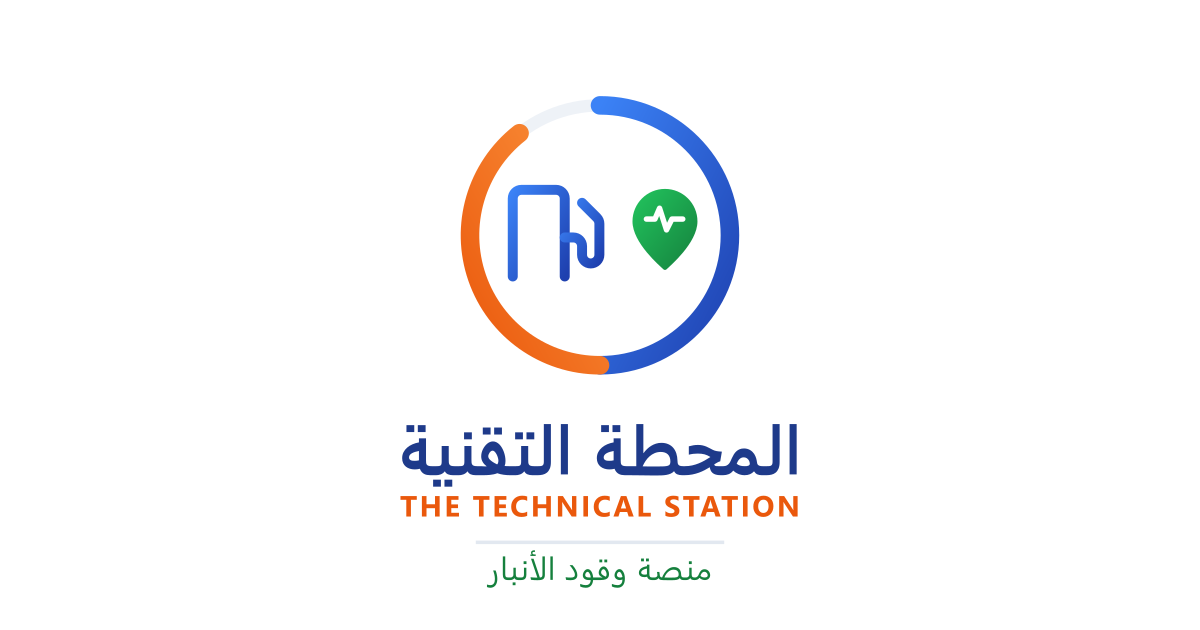
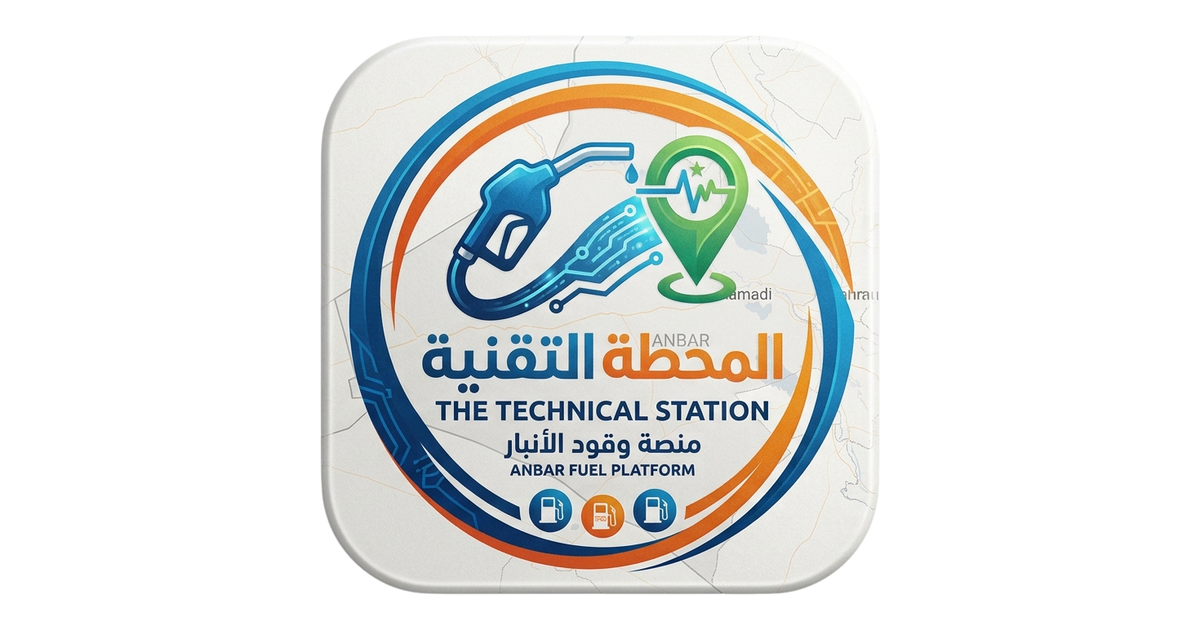
استخدام الشعار الرسمي للمنصة
- إضافة public/logo-original.png كمصدر رسمي للهوية
- توليد كل الأيقونات وصورة المشاركة منه مع قص الهوامش البيضاء
- عرض الشعار في ترويسة الصفحة الرئيسية وصفحة الدخول وإشعار التثبيت
- حذف الشعار المؤقت logo.svg
- رفع إصدار ذاكرة الخدمة العاملة لضمان وصول الأيقونات الجديدة

diff --git a/app/page.tsx b/app/page.tsx
@@ -93,16 +93,16 @@ export default function HomePage() {
     <>
       <header className="bg-gradient-to-b from-brand-700 to-brand px-4 pb-5 pt-6 text-white">
         <div className="mx-auto max-w-md">
-          <div className="flex items-center justify-center gap-2">
+          <div className="flex flex-col items-center">
             {/* eslint-disable-next-line @next/next/no-img-element */}
             <img
               src="/icons/icon-192.png"
-              alt=""
-              width={36}
-              height={36}
-              className="rounded-lg bg-white p-0.5"
+              alt="المحطة التقنية"
+              width={72}
+              height={72}
+              className="rounded-2xl shadow-lift"
             />
-            <h1 className="text-lg font-extrabold">المحطة التقنية</h1>
+            <h1 className="mt-2 text-lg font-extrabold">المحطة التقنية</h1>
           </div>
           <p className="mt-1 text-center text-xs text-white/80">منصة وقود الأنبار — جميع مدن المحافظة</p>
 

diff --git a/public/sw.js b/public/sw.js
@@ -1,6 +1,6 @@
 // Hand-written service worker. Replaced next-pwa/workbox: that pulled ~500
 // packages and 7 high-severity advisories to generate what these ~70 lines do.
-const CACHE = 'mahatta-v2';
+const CACHE = 'mahatta-v3';
 const OFFLINE_URL = '/offline';
 
 self.addEventListener('install', (event) => {
